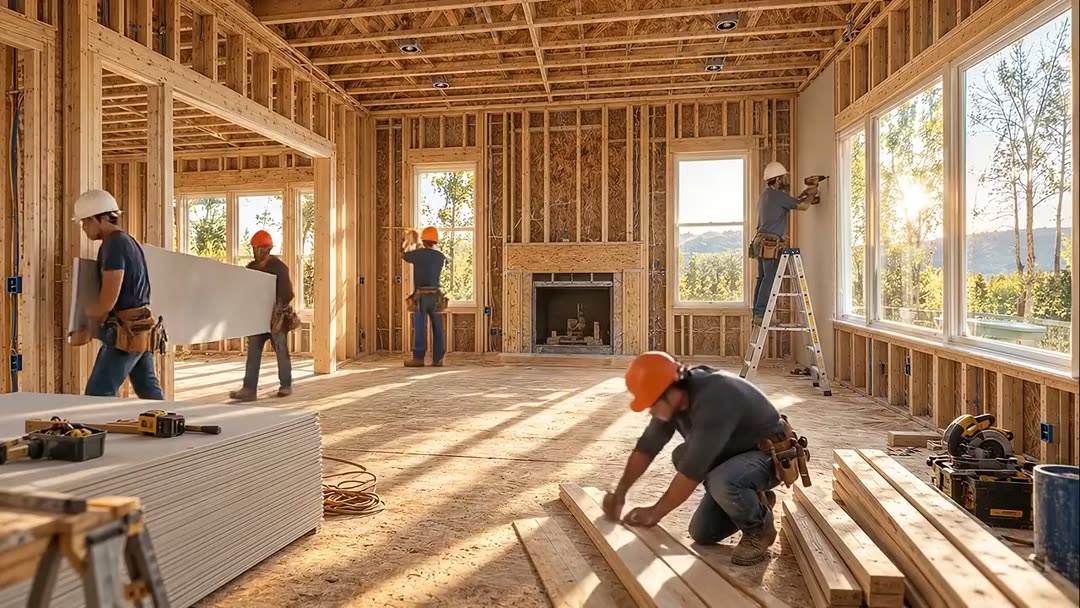
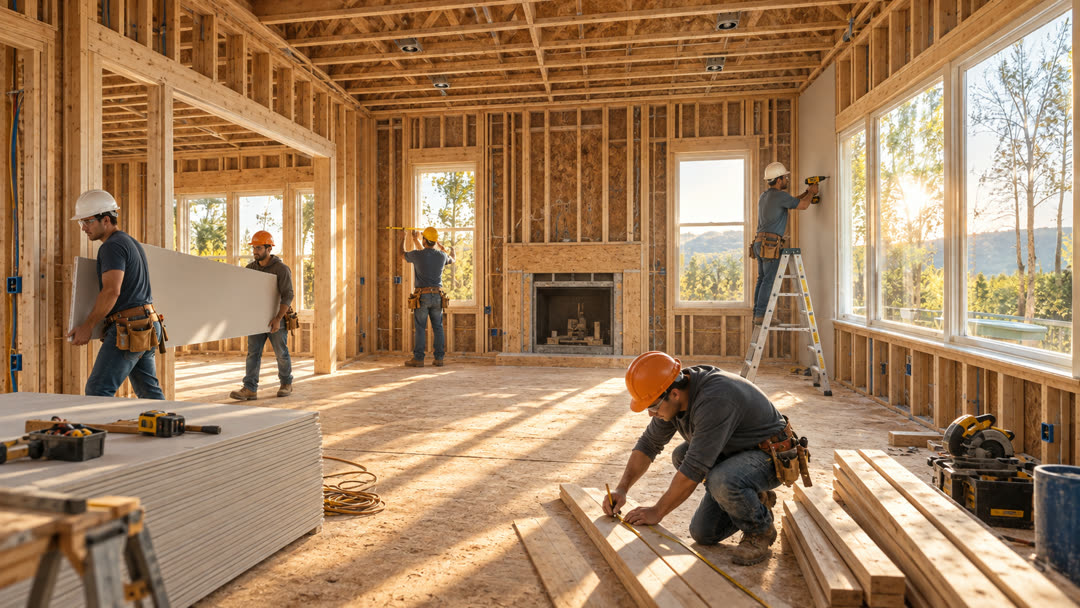
Corrige o responsivo do celular e troca as imagens do palco
Varredura de 320 a 768, nos dois idiomas, procurando conteudo que
escapa da tela. O que apareceu:

- os tres canais de contato: o e-mail e uma palavra so e nao cabia
  em tela estreita, empurrando a linha e abrindo rolagem lateral
- todos os grids de uma coluna usavam 1fr, que nao encolhe abaixo
  do conteudo. Viram minmax(0, 1fr) e o cartao do formulario, o
  mapa e o ticket param de estourar em 320px
- o botao de enviar, com o rotulo em portugues, passava da largura
  do cartao. Ganha max-width e, em telas ate 430px, permissao para
  quebrar o rotulo em duas linhas

A paralaxe dos titulos sai do celular. A barra de endereco do
navegador aparece e some durante a rolagem, a altura da tela muda
no meio do movimento e o titulo dava um solavanco a cada mudanca.

Tambem nesta rodada:

- o seletor de idioma subia atras do menu aberto e sumia; agora
  fica na mesma camada do botao do menu, e o alvo de toque dele
  cresce de 30 para 42px
- o botao do menu passa a ser redondo com borda discreta, no mesmo
  desenho do seletor ao lado
- a barra do topo diminui no celular e, ate 430px, mostra so a
  promocao: com o telefone junto ela virava duas linhas
- o simbolo da marca no canhoto do cupom ganha um circulo de
  contorno, virando selo
- as duas cenas do palco do celular passam a ser as imagens novas,
  convertidas de PNG (4,5 MB somados) para JPEG de 1080px, com 188
  e 110 KB. O poster do video tambem foi refeito a partir do PNG

diff --git a/css/style.css b/css/style.css
@@ -200,6 +200,9 @@ button { font: inherit; color: inherit; }
 .btn .ico { width: 17px; height: 17px; transition: transform .25s var(--ease); }
 .btn:hover .ico { transform: translateX(3px); }
 .btn--lg { padding: 17px 30px; font-size: 15px; }
+/* O botao nunca passa da largura de quem o segura: em portugues
+   os rotulos sao mais longos e em tela estreita estouravam. */
+.btn { max-width: 100%; }
 .btn--block { width: 100%; }
 
 .btn--accent {
@@ -452,19 +455,27 @@ body.is-locked .header .logo__img--claro { opacity: 1; }
 .header:not(.is-solid) .btn--solid { background: #fff; color: var(--tinta); }
 .header:not(.is-solid) .btn--solid:hover { background: var(--acento); color: #fff; }
 
+/* Mesmo desenho do seletor de idioma ao lado: redondo, borda
+   discreta e sem preenchimento. Os dois moram na mesma linha e
+   precisam parecer da mesma familia. */
 .burger {
   display: none;
-  width: 44px;
-  height: 44px;
+  flex: none;
+  width: 42px;
+  height: 42px;
   align-items: center;
   justify-content: center;
-  border: 1px solid currentColor;
-  border-radius: 12px;
+  border: 1px solid rgba(255, 255, 255, .4);
+  border-radius: 50%;
   background: transparent;
+  color: #fff;
   cursor: pointer;
-  opacity: .9;
+  transition: background .25s var(--ease), border-color .25s var(--ease);
 }
-.burger .ico { width: 22px; height: 22px; }
+.burger:hover { background: rgba(255, 255, 255, .12); border-color: #fff; }
+.header.is-solid .burger { border-color: var(--borda-forte); color: var(--tinta); }
+.header.is-solid .burger:hover { background: var(--superficie); border-color: var(--tinta-fraca); }
+.burger .ico { width: 19px; height: 19px; }
 .burger__close { display: none; }
 .nav.is-open ~ .burger .burger__open,
 .burger[aria-expanded="true"] .burger__open { display: none; }
@@ -807,14 +818,19 @@ body.is-locked .header .logo__img--claro { opacity: 1; }
   padding: 40px 30px;
 }
 
-/* Simbolo da marca no canto do canhoto, como carimbo do cupom */
+/* Simbolo da marca no canto do canhoto, como carimbo do cupom.
+   O circulo de contorno o transforma em selo e o separa do fundo
+   escuro, no mesmo desenho do botao do menu e do seletor. */
 .ticket__mark {
   position: absolute;
-  top: 26px;
-  right: 28px;
-  width: 32px;
-  height: auto;
-  opacity: .9;
+  top: 24px;
+  right: 24px;
+  width: 44px;
+  height: 44px;
+  padding: 10px;
+  border: 1px solid rgba(255, 255, 255, .4);
+  border-radius: 50%;
+  object-fit: contain;
 }
 .ticket__label {
   align-self: flex-start;
@@ -1712,14 +1728,19 @@ body.visor-aberto { overflow: hidden; }
   .stats__item:nth-child(odd) { border-left: 0; }
   .stats__num { font-size: 38px; }
   .section { padding: 84px 0; }
-  .section__head { grid-template-columns: 1fr; gap: 20px; margin-bottom: 44px; }
-  .faq__inner { grid-template-columns: 1fr; gap: 40px; }
-  .contact__grid { grid-template-columns: 1fr; }
+  .section__head { grid-template-columns: minmax(0, 1fr); gap: 20px; margin-bottom: 44px; }
+  .faq__inner { grid-template-columns: minmax(0, 1fr); gap: 40px; }
+  /* minmax(0,1fr) e nao 1fr: com auto, o cartao nao encolhe
+     abaixo do conteudo e estoura a tela em aparelho estreito. */
+  .contact__grid { grid-template-columns: minmax(0, 1fr); }
   .contact__mapa { min-height: 300px; }
-  .canais { grid-template-columns: 1fr; gap: 26px; margin-top: 44px; padding-top: 36px; }
-  .canal { flex-direction: row; align-items: center; text-align: left; gap: 16px; }
+  .canais { grid-template-columns: minmax(0, 1fr); gap: 26px; margin-top: 44px; padding-top: 36px; }
+  .canal { flex-direction: row; align-items: center; text-align: left; gap: 14px; }
   .canal__ico { flex: none; width: 46px; height: 46px; }
-  .canal__titulo { flex: none; min-width: 108px; }
+  .canal__titulo { flex: none; min-width: 96px; }
+  /* O e-mail e uma palavra so e nao cabe inteira em tela estreita:
+     sem a quebra ele empurrava a linha e abria rolagem lateral. */
+  .canal__dado { min-width: 0; overflow-wrap: anywhere; }
   .faq__head { position: static; }
   /* O mural encolhe para quatro colunas e o titulo passa a vir
      abaixo dele, em vez de dentro do vao. */
@@ -1736,7 +1757,7 @@ body.visor-aberto { overflow: hidden; }
     width: 100%;
     margin-top: 40px;
   }
-  .depo__lista { grid-template-columns: 1fr; gap: 34px; }
+  .depo__lista { grid-template-columns: minmax(0, 1fr); gap: 34px; }
 
   /* Duas colunas: o cartao grande ocupa a primeira linha inteira
      e os outros seguem em pares. */
@@ -1752,7 +1773,7 @@ body.visor-aberto { overflow: hidden; }
   /* Menu mobile */
   .burger { display: inline-flex; }
   .idioma { margin-left: auto; margin-right: 10px; }
-  .idioma__op { padding: 6px 9px; gap: 5px; font-size: 11px; }
+  .idioma__op { padding: 10px 10px; gap: 5px; font-size: 11px; }
   .idioma__flag { width: 16px; height: 16px; }
   .nav {
     position: fixed;
@@ -1796,6 +1817,10 @@ body.visor-aberto { overflow: hidden; }
   .header:not(.is-solid) .nav .btn--solid,
   .header .nav .btn--solid { background: var(--acento); color: #fff; }
   .burger { position: relative; z-index: 96; }
+  /* O menu cobre a tela inteira: sem subir junto, o seletor de
+     idioma ficaria atras dele e a troca sumiria com o menu
+     aberto. */
+  .idioma { z-index: 96; }
   .header.is-solid .burger[aria-expanded="true"] { color: #fff; }
 }
 
@@ -1803,10 +1828,11 @@ body.visor-aberto { overflow: hidden; }
   :root { --topbar-h: 36px; }
   .topbar__promo .topbar__sep, .topbar__promo .topbar__muted { display: none; }
   .topbar__contact a:last-child { display: none; }
-  .topbar { font-size: 12px; }
+  .topbar { font-size: 11.5px; }
+  .topbar__promo strong { font-weight: 600; }
   /* Espaco curto: fica so a bandeira, sem a sigla */
   .idioma__sigla { display: none; }
-  .idioma__op { padding: 7px; }
+  .idioma__op { padding: 11px; }
 
   /* No celular entra a imagem fixa no lugar do video */
   .stage__media {
@@ -1841,7 +1867,7 @@ body.visor-aberto { overflow: hidden; }
 
   .hero { padding-top: calc(var(--topbar-h) + var(--header-h) + 24px); padding-bottom: 96px; }
   .hero__text { font-size: 15.5px; }
-  .hero__inner { grid-template-columns: 1fr; gap: 26px; }
+  .hero__inner { grid-template-columns: minmax(0, 1fr); gap: 26px; }
   .progress { display: none; }
   .hero__actions .btn { flex: 1 1 auto; }
   .scroll-hint { display: none; }
@@ -1857,7 +1883,7 @@ body.visor-aberto { overflow: hidden; }
   /* Empilhado, a dobra passa a ser a borda picotada do canhoto:
      assim ela cai sempre na divisao real entre as duas partes. */
   .ticket {
-    grid-template-columns: 1fr;
+    grid-template-columns: minmax(0, 1fr);
     border-radius: 20px;
     -webkit-mask: none;
     mask: none;
@@ -1924,19 +1950,32 @@ body.visor-aberto { overflow: hidden; }
   .depo__col:nth-child(1) img:nth-child(2), .depo__col:nth-child(2) img:nth-child(2) { display: none; }
   .depo__centro { margin-top: 30px; }
 
-  .cards { grid-template-columns: 1fr; }
+  .cards { grid-template-columns: minmax(0, 1fr); }
   .cats {
-    grid-template-columns: 1fr;
+    grid-template-columns: minmax(0, 1fr);
     grid-template-rows: repeat(5, 252px);
     grid-template-areas: "a" "b" "c" "d" "e";
     gap: 12px;
   }
   .formcard { padding: 26px 22px; }
-  .field-row { grid-template-columns: 1fr; }
-  .footer__inner { grid-template-columns: 1fr; gap: 34px; }
+  .field-row { grid-template-columns: minmax(0, 1fr); }
+  .footer__inner { grid-template-columns: minmax(0, 1fr); gap: 34px; }
 }
 
 /* ---------- Preferencia por menos movimento ---------- */
+/* Celulares estreitos: o rotulo do botao passa a poder quebrar,
+   em vez de esticar o botao para fora da tela. */
+@media (max-width: 430px) {
+  .btn { white-space: normal; text-align: center; }
+
+  /* Em tela estreita a promocao e o telefone nao cabem na mesma
+     linha e a barra virava duas. Fica a promocao, que e o que
+     traz a pessoa; o telefone esta logo abaixo no hero. */
+  .topbar { font-size: 11px; }
+  .topbar__contact { display: none; }
+  .topbar__promo { justify-content: center; width: 100%; }
+}
+
 @media (prefers-reduced-motion: reduce) {
   *, *::before, *::after {
     animation-duration: .001ms !important;

diff --git a/js/main.js b/js/main.js
@@ -743,7 +743,11 @@
 
     titulos.forEach(function (t) { olhoTitulos.observe(t); });
 
-    var AMPLITUDE = 12;
+    // No celular a paralaxe fica de fora. A barra de endereco
+    // aparece e some durante a rolagem, a altura da tela muda no
+    // meio do movimento e o titulo dava um solavanco a cada
+    // mudanca, como se estivesse orbitando.
+    var AMPLITUDE = telaPequena ? 0 : 12;
     var pendente = false;
 
     function moverTitulos() {
@@ -760,13 +764,15 @@
       });
     }
 
-    window.addEventListener('scroll', function () {
-      if (pendente) return;
-      pendente = true;
-      requestAnimationFrame(moverTitulos);
-    }, { passive: true });
+    if (!telaPequena) {
+      window.addEventListener('scroll', function () {
+        if (pendente) return;
+        pendente = true;
+        requestAnimationFrame(moverTitulos);
+      }, { passive: true });
 
-    moverTitulos();
+      moverTitulos();
+    }
   }
 
   /* =======================================================
